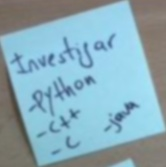
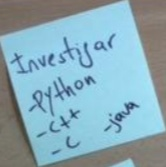
Postits sin blur

diff --git a/v1/parserimg.py b/v1/parserimg.py
@@ -117,6 +117,7 @@ class Parser(object):
         if img == None:
             raise InvalidPath
         img = cv2.resize(img, (800,600))
+        imgOriginal = img.copy()
         img = cv2.GaussianBlur(img, (5, 5), 0)
         #aca guardamos los postits encontrados
         
@@ -187,7 +188,7 @@ class Parser(object):
             x,y,w,h = rects[i]
         
 						# subimagen que contiene el postit detectado
-            img2 = cv2.getRectSubPix(img, (w, h), (x+w/2, y+h/2))
+            img2 = cv2.getRectSubPix(imgOriginal, (w, h), (x+w/2, y+h/2))
             
             path_ = self.saveImage(path, i, img2)
             board.append(Postit(path_, x, y, w, h))
